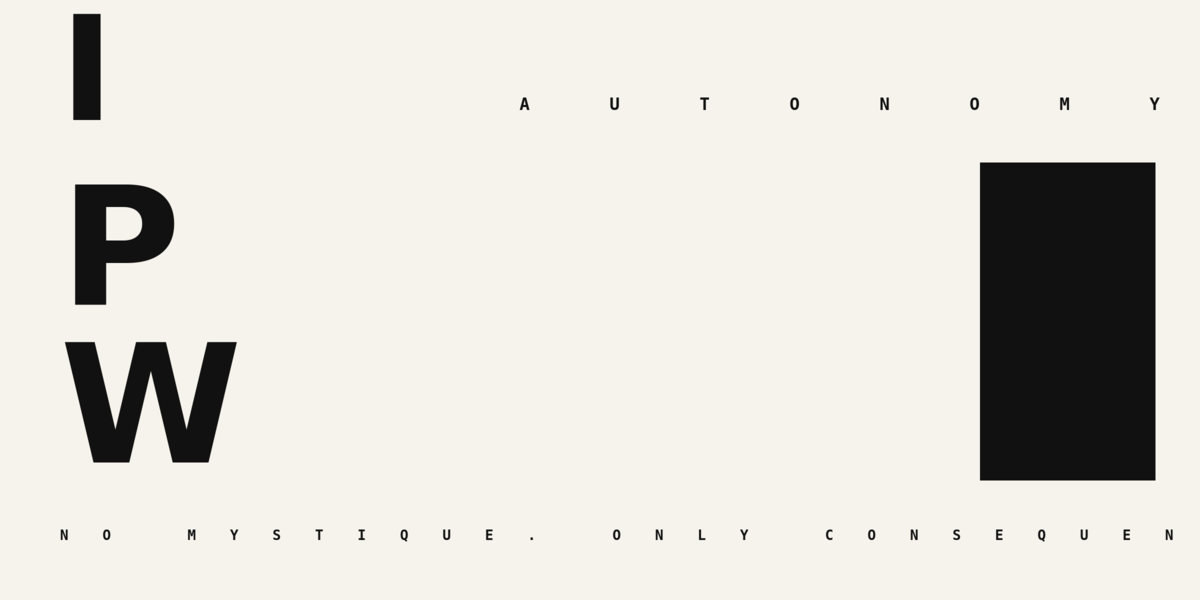
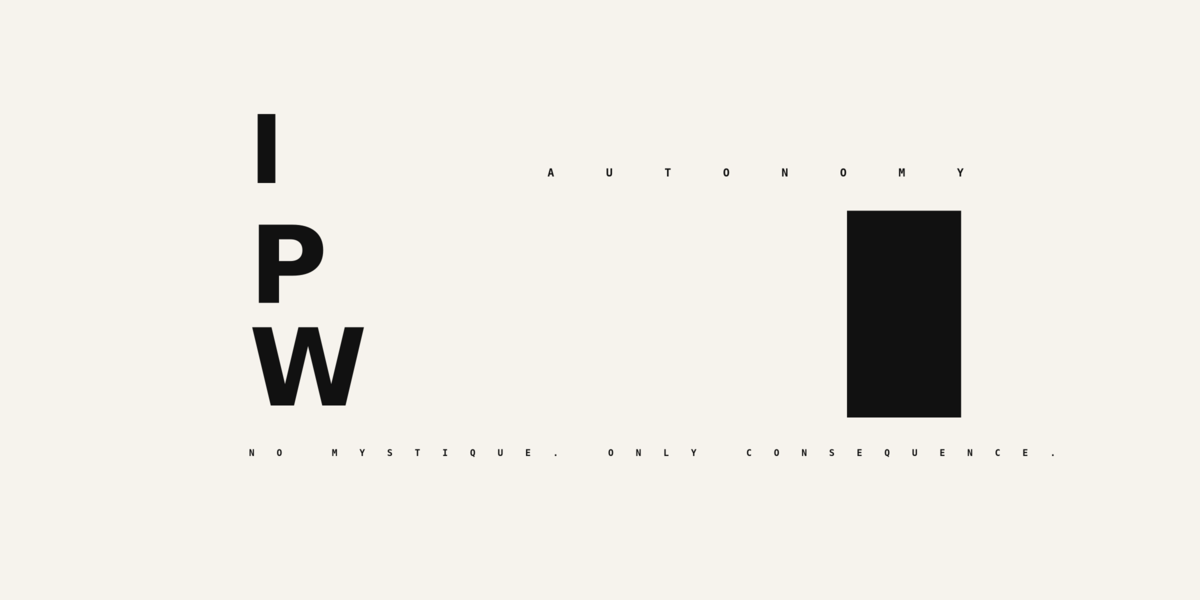
repair image study crops and chromatic rendering

diff --git a/image-studies-02/review.py b/image-studies-02/review.py
@@ -1,0 +1,47 @@
+#!/usr/bin/env python3
+"""Fail the build for likely crop, grayscale, dimension, or artifact errors."""
+from pathlib import Path
+import json, subprocess, sys
+ROOT=Path(__file__).parent
+OUT=ROOT/'output'
+EXPECTED=(1200,600)
+CHROMA_MIN=0.02
+EDGE_STD_MAX=0.002
+
+def run(*args):
+    return subprocess.check_output(args,text=True).strip()
+
+def fx(path, expression, *ops):
+    return float(run('convert',str(path),*ops,'-format',f'%[fx:{expression}]','info:'))
+
+def channel_diff(path,a,b):
+    pa=Path('/tmp')/f'ion-{a}.png'; pb=Path('/tmp')/f'ion-{b}.png'
+    subprocess.check_call(['convert',str(path),'-colorspace','sRGB','-channel',a,'-separate',str(pa)])
+    subprocess.check_call(['convert',str(path),'-colorspace','sRGB','-channel',b,'-separate',str(pb)])
+    return float(run('convert',str(pa),str(pb),'-compose','difference','-composite','-format','%[fx:mean]','info:'))
+
+def edge_std(path,w,h,n=12):
+    crops=[f'{w}x{n}+0+0',f'{w}x{n}+0+{h-n}',f'{n}x{h}+0+0',f'{n}x{h}+{w-n}+0']
+    
+    values=[]
+    for i,c in enumerate(crops):
+        crop=Path('/tmp')/f'ion-edge-{i}.png'
+        subprocess.check_call(['convert',str(path),'-crop',c,'+repage',str(crop)])
+        for channel in ('R','G','B'):
+            values.append(float(run('convert',str(crop),'-channel',channel,'-separate','-format','%[fx:standard_deviation]','info:')))
+    return max(values)
+
+results=[]; failures=[]
+for p in sorted(OUT.glob('0[1-6]-*.png')):
+    dims=run('identify','-format','%w %h',str(p)).split(); w,h=map(int,dims)
+    rg=channel_diff(p,'R','G'); gb=channel_diff(p,'G','B')
+    edge=edge_std(p,w,h)
+    item={'file':p.name,'width':w,'height':h,'rg_difference':round(rg,6),'gb_difference':round(gb,6),'max_edge_stddev':round(edge,6)}
+    results.append(item)
+    if (w,h)!=EXPECTED: failures.append(f'{p.name}: expected {EXPECTED}, got {(w,h)}')
+    if edge>EDGE_STD_MAX: failures.append(f'{p.name}: edge variation {edge:.6f} suggests clipped foreground')
+    if p.name.startswith('06-') and max(rg,gb)<CHROMA_MIN: failures.append(f'{p.name}: chroma {max(rg,gb):.6f} below {CHROMA_MIN}')
+report={'checks':{'dimensions':EXPECTED,'max_edge_stddev':EDGE_STD_MAX,'chromatic_min_channel_difference':CHROMA_MIN},'artifacts':results,'failures':failures}
+(OUT/'review-report.json').write_text(json.dumps(report,indent=2)+'\n')
+print(json.dumps(report,indent=2))
+if failures: sys.exit(1)

diff --git a/image-studies-02/apply_safe_frame.py b/image-studies-02/apply_safe_frame.py
@@ -1,0 +1,47 @@
+#!/usr/bin/env python3
+"""Inset every study's foreground into a crop-safe frame.
+
+The full-canvas background stays fixed. All authored foreground is scaled to 80%
+and centered, so no intentional overscan is mistaken for accidental clipping.
+The chromatic study also replaces SVG paint-server strokes unsupported by the
+pinned ImageMagick renderer with explicit reproducible colors.
+"""
+from pathlib import Path
+import xml.etree.ElementTree as ET
+
+NS='http://www.w3.org/2000/svg'
+ET.register_namespace('', NS)
+rootdir=Path(__file__).parent/'output'
+palette=['#53f6d3','#bb5cff','#ff7849','#4fa8ff','#f8d44d']
+for path in sorted(rootdir.glob('0[1-6]-*.svg')):
+    tree=ET.parse(path); root=tree.getroot()
+    if any((c.attrib.get('id')=='safe-frame') for c in root):
+        continue
+    children=list(root)
+    base=None; defs=[]; foreground=[]
+    for child in children:
+        tag=child.tag.rsplit('}',1)[-1]
+        if tag in ('title','desc'):
+            continue
+        if tag=='defs':
+            defs.append(child); continue
+        if base is None and tag=='rect' and child.attrib.get('width')=='2400' and child.attrib.get('height')=='1200' and not child.attrib.get('fill','').startswith('url('):
+            base=child; continue
+        # ImageMagick 6 renders these SVG gradient paint servers as black.
+        if path.name.startswith('06-') and tag=='rect' and child.attrib.get('fill','').startswith('url('):
+            continue
+        foreground.append(child)
+    for child in foreground:
+        root.remove(child)
+    group=ET.Element(f'{{{NS}}}g', {'id':'safe-frame','transform':'translate(240 120) scale(0.8)'})
+    color_i=0
+    for child in foreground:
+        if path.name.startswith('06-'):
+            for el in child.iter():
+                for attr in ('stroke','fill'):
+                    if el.attrib.get(attr,'').startswith('url('):
+                        el.set(attr,palette[color_i % len(palette)])
+                        color_i += 1
+        group.append(child)
+    root.append(group)
+    tree.write(path, encoding='unicode', xml_declaration=False)

diff --git a/image-studies-02/HUMAN-REVIEW.md b/image-studies-02/HUMAN-REVIEW.md
@@ -1,0 +1,17 @@
+# Human visual review gate
+
+Objective checks are necessary but not sufficient. Publication is provisional until a named human checks the rendered 1200 × 600 PNGs and the 2400 × 1800 contact sheet at 100% scale.
+
+Required checklist for each release:
+
+- [ ] No text, line, shape, or focal subject appears accidentally cut off.
+- [ ] The composition remains legible at the document's rendered width.
+- [ ] Color matches the named direction; Chromatic Portal visibly contains turquoise, violet, and orange.
+- [ ] All six individual images match the contact sheet.
+- [ ] Reviewer records name, date, decision, and any required corrections below.
+
+## Current release
+
+- Objective gate: PASS (`output/review-report.json`; zero failures)
+- Human reviewer: pending Eric
+- Decision: provisional; awaiting visual approval
